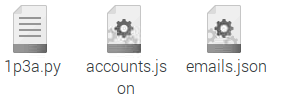
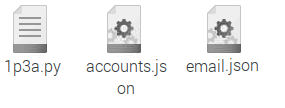
fixed demo pic

Changed region(s): [[0.786, 0.5556, 0.9544, 0.7222], [0.786, 0.5278, 0.814, 0.5556]]

diff --git a/README.md b/README.md
@@ -32,12 +32,14 @@ Your folder starts with one python file
 5. In the same folder, create accounts.json
 <br>Fill in your 1point3acres.com account and password
 ```json
-{
-	"account": "",
-	"password": ""
-}
+[
+	{
+		"account": "",
+		"password": ""
+	}
+]
 ```
-6. In the same folder, create emails.json
+6. In the same folder, create email.json
 <br>Fill in your account and password for Gmail, and the email address that you want to receive the notification.
 <br>Note: You may need to disable some security settings in Gmail
 ```json
